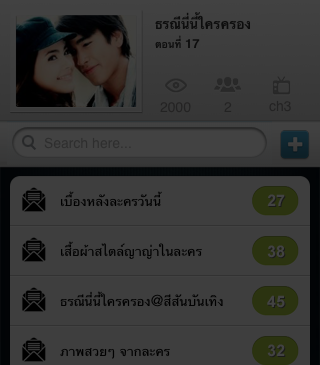
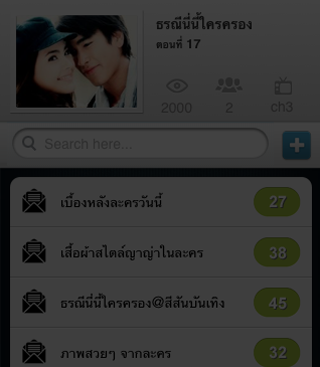
default tabgroup

diff --git a/Resources/ui/common/ApplicationTabGroup.js b/Resources/ui/common/ApplicationTabGroup.js
@@ -1,7 +1,6 @@
 function ApplicationTabGroup() {
     // create tab group, create module instance
     var self = Titanium.UI.createTabGroup({
-    	backgroundColor: '#fff',
     });
 		
 	var ChannelSelectionMainWindow = require('ui/common/Cs_ChannelSelectionMainWindow');
@@ -11,70 +10,53 @@ function ApplicationTabGroup() {
 	var ProfileMainWindow = require('ui/common/Pf_ProfileMainWindow');
 	var SettingWindow = require('ui/common/Am_SettingWindow');
     var BlankWindow = require('ui/common/BlankWindow');
-        
-	Ti.include('lib/customTabBar.js');
-    
+       
     var myUserId = acs.getUserId();
 	
-	var updateCustomTabBar = function(_tab) {
-		myCustomTabBar.back(_tab);
-	}
-	
-	var selectionwin = new ChannelSelectionMainWindow({height:426, tabBarHidden: true});
-	var chatwin = new ChatMainWindow(myCurrentSelectedProgram,{height:426, tabBarHidden: true});
-	var messageboardwin = new MessageboardMainWindow(myCurrentSelectedProgram,{height:426, tabBarHidden: true});				
-	var productwin = new ProductMainWindow(myCurrentSelectedProgram,{height:426, tabBarHidden: true});
-	var profilewin =  new ProfileMainWindow(myUserId,"me",{height:426, tabBarHidden: true});
+	var selectionwin = new ChannelSelectionMainWindow();
+	var chatwin = new ChatMainWindow(myCurrentSelectedProgram);
+	var messageboardwin = new MessageboardMainWindow(myCurrentSelectedProgram);				
+	var productwin = new ProductMainWindow(myCurrentSelectedProgram);
+	var profilewin =  new ProfileMainWindow(myUserId,"me");
 	var blankwin = new BlankWindow();
 	
 	var tabIndexToComeBack = 0;
 	var selectionTab = Ti.UI.createTab({
+		title: 'Discover',
+		icon: '/images/discover.png',
 		window: selectionwin
 	});
 	selectionwin.containingTab = selectionTab;
 	selectionTab.tabGroup = self; 
-	selectionTab.addEventListener('focus',function(){
-		tabIndexToComeBack = 0;	 //for redirecting when chat window is close
-		updateCustomTabBar(tabIndexToComeBack);
-	});
-		
+	
     var chatTab = Titanium.UI.createTab({  
-     	window: chatwin,
+    	title: 'Chat',
+    	icon: '/images/chat-2.png',
+     	window: chatwin
 	});
     chatwin.containingTab = chatTab;
-	chatTab.addEventListener('focus',function(){
-		tabIndexToComeBack = 1;	 //for redirecting when chat window is close
-		updateCustomTabBar(tabIndexToComeBack);
-	});   
-   
-    var messageboardTab = Titanium.UI.createTab({  
-        window: messageboardwin,
+  
+    var messageboardTab = Titanium.UI.createTab({
+    	title: 'Board',
+    	icon: '/images/messageboard.png',
+    	window: messageboardwin
     });
     messageboardwin.containingTab = messageboardTab;
-	messageboardTab.addEventListener('focus',function(){
-		tabIndexToComeBack = 2;	 //for redirecting when chat window is close
-		updateCustomTabBar(tabIndexToComeBack);
-	});
-	
+
 	var productTab = Ti.UI.createTab({
-		window: productwin,
+		title: 'Product',
+		icon: '/images/product.png',
+		window: productwin
 	});
 	productwin.containingTab = productTab;
-	productTab.addEventListener('focus',function(){
-		tabIndexToComeBack = 3;	 //for redirecting when chat window is close
-		updateCustomTabBar(tabIndexToComeBack);
-	});
 	
 	var profileTab = Ti.UI.createTab({
+		title: 'Me',
+		icon: '/images/me.png',
 		window: profilewin
  	});
 	profilewin.containingTab = profileTab;
-	profileTab.addEventListener('focus',function(){
-		tabIndexToComeBack = 4;	 //for redirecting when chat window is close
-		updateCustomTabBar(tabIndexToComeBack);
-	});
-	
-	//////////////////////
+
 	self.addTab(selectionTab);
     self.addTab(chatTab);  
     self.addTab(messageboardTab);  
@@ -87,20 +69,6 @@ function ApplicationTabGroup() {
     //save 1-clcik, direct to message board functionality
    	self.setActiveTab(self.tabs[0]);
 	self.open();
-	
-	var myCustomTabBar = new CustomTabBar({
-		tabBar: self,
-		imagePath: 'images/tabgroup/',
-		width: 64,
-		height: 54,
-		items: [
-			{ image: 'discover.png', selected: 'discover_over.png' },
-			{ image: 'chat.png', selected: 'chat_over.png' },
-			{ image: 'board.png', selected: 'board_over.png' },
-			{ image: 'shop.png', selected: 'shop_over.png' },
-			{ image: 'me.png', selected: 'me_over.png' }
-		]
-	});
 	
 	//PROFILE: CALLING ACS
 	var LevelACS = require('acs/levelACS');	

diff --git a/Resources/pubnub-chat.js b/Resources/pubnub-chat.js
@@ -35,8 +35,8 @@ Ti.App.Chat = function(_chatParams) {
 	var totalHistoryMessages = 0;
 	
 	var chatMessagesTableView = Ti.UI.createTableView({
-		top:5,
-		height:320,
+		top:0,
+		height:370,
 		backgroundColor: 'transparent',
 		separatorColor: 'transparent',
 		scrollable: true
@@ -99,7 +99,8 @@ Ti.App.Chat = function(_chatParams) {
 		barImage: 'images/nav_bg_w_pattern.png',
 		backgroundImage: 'images/bg.png',
 		barColor:'#489ec3',
-		leftNavButton: backButton
+		leftNavButton: backButton,
+		tabBarHidden: true
 	});
 	
 	backButton.addEventListener('click', function(){
@@ -107,7 +108,7 @@ Ti.App.Chat = function(_chatParams) {
 	});
 
 	var loadHistoryMessagesRow = Ti.UI.createTableViewRow({
-		top: 0,
+		top: 7,
 		height: 30,
 		selectionStyle: Ti.UI.iPhone.TableViewCellSelectionStyle.NONE
 	});
@@ -120,8 +121,8 @@ Ti.App.Chat = function(_chatParams) {
 	loadHistoryMessagesRow.add(loadHistoryButton);
 	
 	var chatInputView = Ti.UI.createView({
-		//bottom: 0,
-		top: 325,
+		bottom: 0,
+	//	top: 325,
 		height: 40,
 		width: '100%',
 		zIndex: 2,
@@ -220,7 +221,7 @@ Ti.App.Chat = function(_chatParams) {
 	});
 	
 	chatInputTextField.addEventListener('blur', function() {
-		chatInputView.top = 325;
+		chatInputView.top = 370;
 		chatInputView.height = 40;
 		chatInputTextField.height = 30;
 	});

diff --git a/Resources/ui/common/Am_CheckinGuideline.js b/Resources/ui/common/Am_CheckinGuideline.js
@@ -3,7 +3,7 @@ var CheckinGuideline = function(_tab) {
 	var self = Ti.UI.createView({
 		top: 0,
 		width: 320,
-		height: 365,
+		height: 370,
 		zIndex:40
 	});
 
